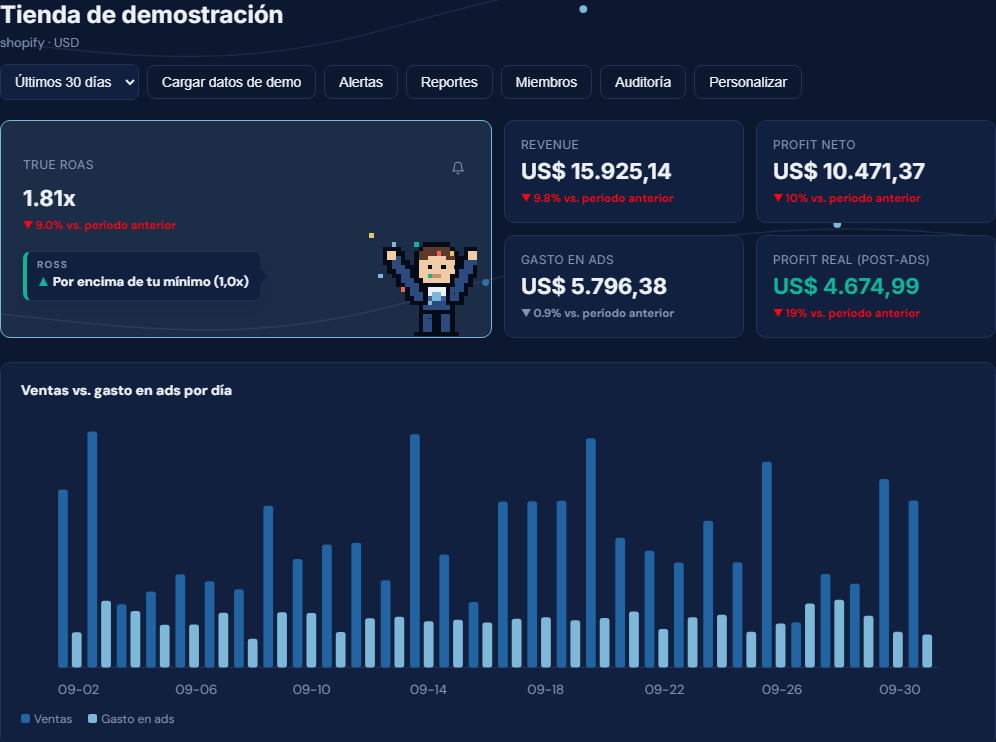
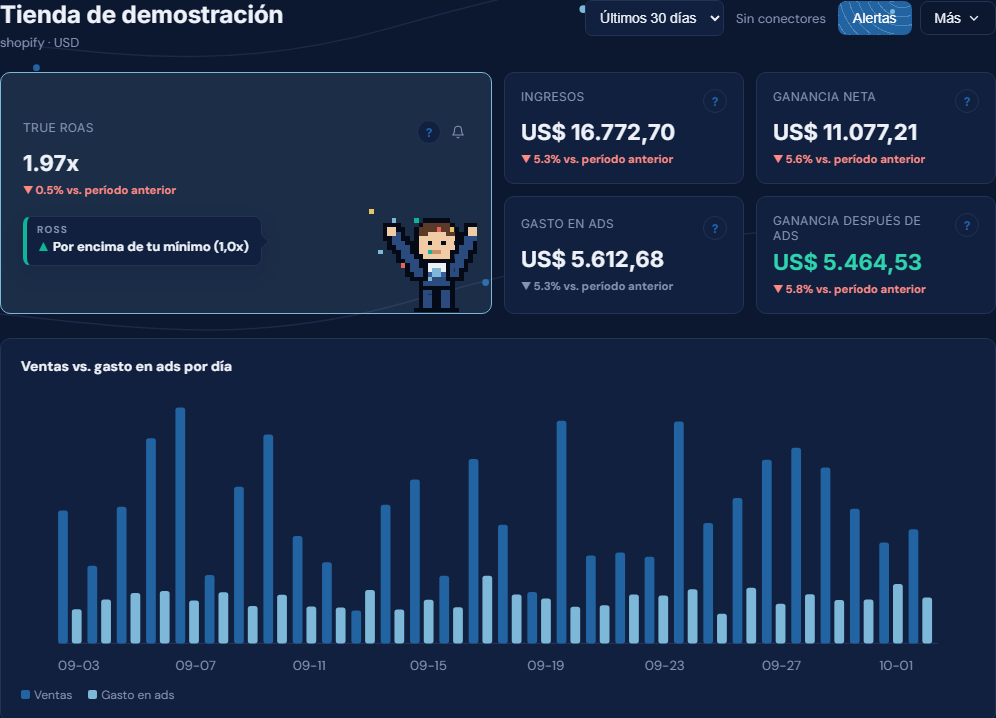
Refresh the landing's dashboard captures after the header and glossary
Regenerated with npm run shots:landing so the landing shows the
dashboard as it is now: the "Más" header, Spanish metric names with
their "?" help, and the daily chart. The image's width/height attributes
follow the new size so the page doesn't jump while it loads.

diff --git a/frontend/landing.html b/frontend/landing.html
@@ -92,7 +92,7 @@
       <h2 class="l-section-title">Así se ve tu tienda en ROSS</h2>
     </div>
     <figure class="l-shot">
-      <img src="img/dashboard-demo-light.png" width="996" height="745" loading="lazy"
+      <img src="img/dashboard-demo-light.png" width="996" height="718" loading="lazy"
            alt="Tablero de ROSS de una tienda de demostración: True ROAS, ingresos, ganancia neta, gasto en ads y el gráfico de ventas contra gasto por día en los últimos 30 días." />
       <figcaption>Tablero real de ROSS con datos de demostración.</figcaption>
     </figure>
